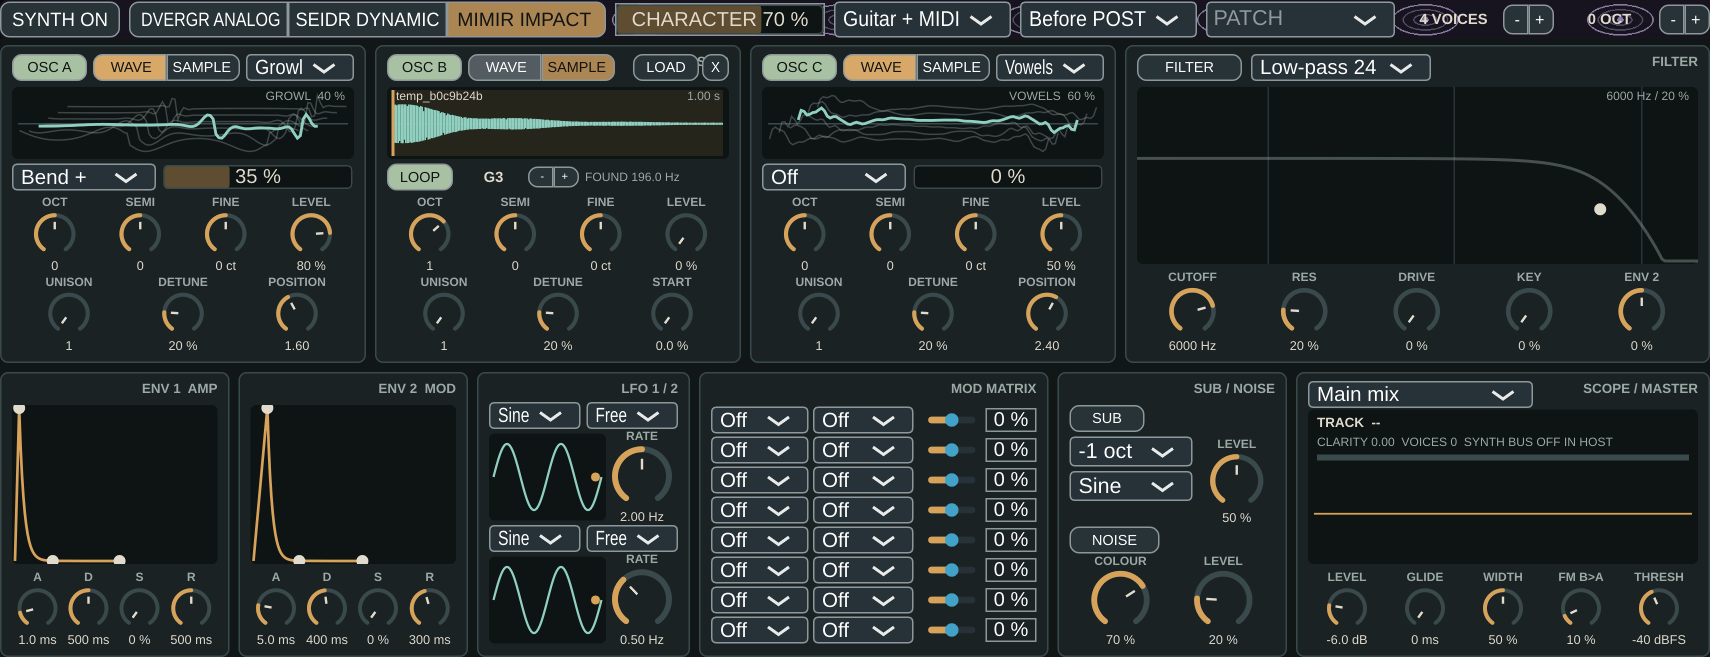
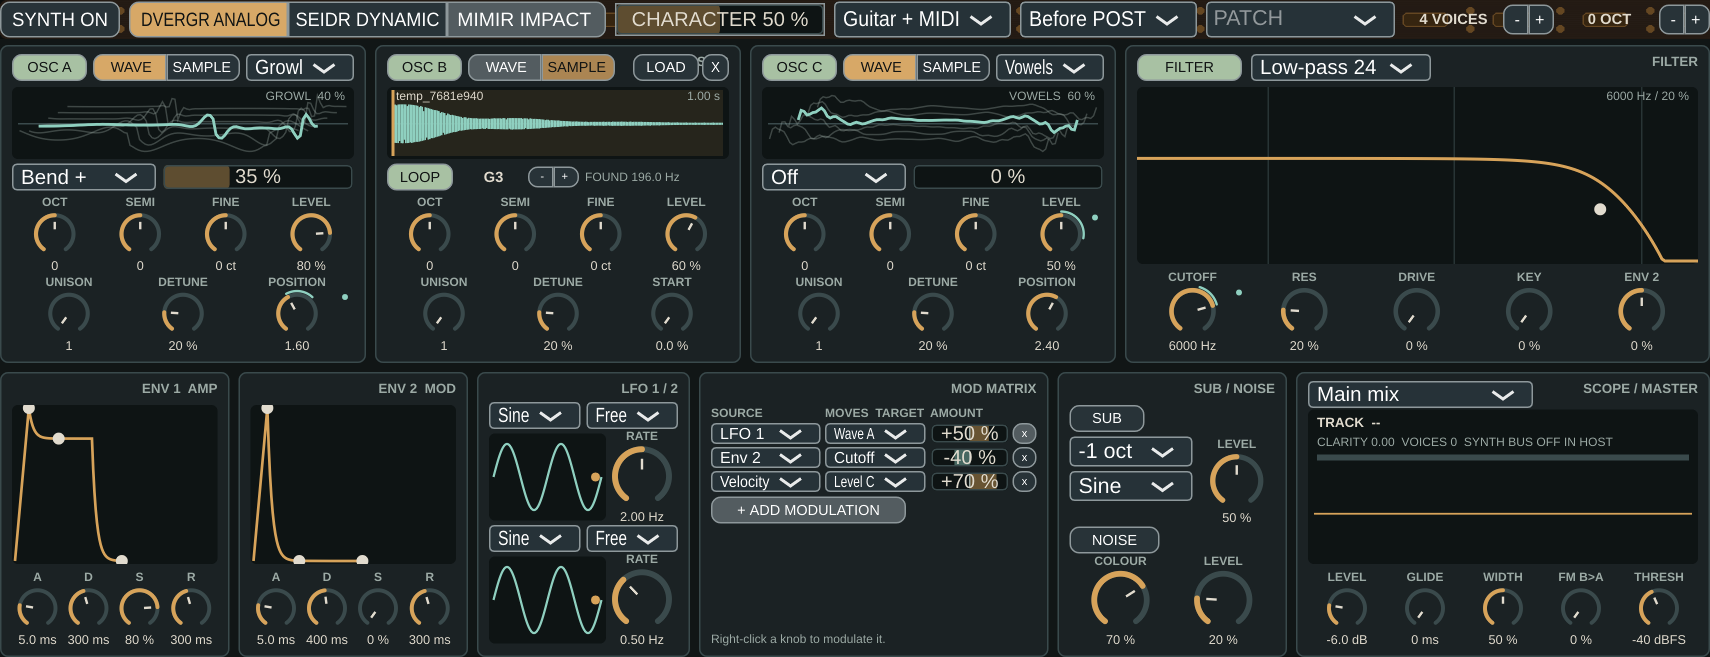
SYNTH page: a readable modulation matrix
Column titles, only the rows in use with + and x, a two-way amount
bar, right-click a knob to choose what moves it, and a mark on
modulated knobs. Parameters and engine unchanged.

Claude-Session: https://claude.ai/code/session_016MDh9rnDZpGFR7fQWkgNVc

diff --git a/Source/SynthPage.h b/Source/SynthPage.h
@@ -34,12 +34,25 @@ public:
         g.setColour(slider.isEnabled()?accentColour:mutedColour);g.strokePath(value,juce::PathStrokeType(thick,juce::PathStrokeType::curved,juce::PathStrokeType::rounded));
         const auto tip=c.getPointOnCircumference(radius-thick*1.6f,angle);
         g.setColour(inkColour);g.drawLine({c.getPointOnCircumference(radius*.25f,angle),tip},1.6f);
+        // A knob the matrix modulates: an outer arc from the set value, towards
+        // the side the modulation pushes it (its length follows the amount; it
+        // is an indicator, not the exact range).
+        if(const double mod=double(slider.getProperties().getWithDefault("mod",0.0));std::abs(mod)>.005){
+            const float span=float(juce::jlimit(-1.0,1.0,mod))*.5f*(end-start),to=juce::jlimit(start,end,angle+span);
+            juce::Path arc;arc.addCentredArc(c.x,c.y,radius+thick*.9f,radius+thick*.9f,0,juce::jmin(angle,to),juce::jmax(angle,to),true);
+            g.setColour(traceColour);g.strokePath(arc,juce::PathStrokeType(1.6f,juce::PathStrokeType::curved,juce::PathStrokeType::rounded));
+            g.fillEllipse(r.getRight()-6,r.getY()+1,4,4);
+        }
     }
     void drawLinearSlider(juce::Graphics& g,int x,int y,int width,int height,float position,float minimum,float maximum,juce::Slider::SliderStyle style,juce::Slider& slider) override {
         if(style!=juce::Slider::LinearBar){juce::LookAndFeel_V4::drawLinearSlider(g,x,y,width,height,position,minimum,maximum,style,slider);return;}
         const auto r=juce::Rectangle<int>(x,y,width,height).toFloat();
         g.setColour(juce::Colour(0xff0e1414));g.fillRoundedRectangle(r,3);
-        g.setColour(accentColour.withAlpha(.4f));g.fillRoundedRectangle(r.withRight(position),3);
+        if(slider.getMinimum()<0 && slider.getMaximum()>0){   // a two-way amount: the bar grows from the centre
+            const float centre=r.getX()+r.getWidth()*float(-slider.getMinimum()/(slider.getMaximum()-slider.getMinimum()));
+            g.setColour((slider.getValue()<0?traceColour:accentColour).withAlpha(.45f));g.fillRect(juce::Rectangle<float>::leftTopRightBottom(juce::jmin(centre,position),r.getY()+1,juce::jmax(centre,position),r.getBottom()-1));
+            g.setColour(mutedColour);g.fillRect(centre-.5f,r.getY()+2,1.f,r.getHeight()-4);
+        } else {g.setColour(accentColour.withAlpha(.4f));g.fillRoundedRectangle(r.withRight(position),3);}
         g.setColour(edgeColour);g.drawRoundedRectangle(r.reduced(.5f),3,1);
     }
     juce::Label* createSliderTextBox(juce::Slider& slider) override {
@@ -104,7 +117,9 @@ private:
 };
 class Choice final : public juce::ComboBox {
 public:
-    Choice(juce::AudioProcessorValueTreeState& state,const juce::String& id,const juce::StringArray& items,const juce::String& tip) {
+    // `first`: the text shown for the first choice in place of its parameter name (for example "Source" for "Off").
+    Choice(juce::AudioProcessorValueTreeState& state,const juce::String& id,juce::StringArray items,const juce::String& tip,const juce::String& first={}) {
+        if(first.isNotEmpty() && !items.isEmpty())items.set(0,first);
         setComponentID(id);setTooltip(tip);setName(tip);addItemList(items,1);
         attachment=std::make_unique<juce::AudioProcessorValueTreeState::ComboBoxAttachment>(state,id,*this);
     }
@@ -453,17 +468,29 @@ public:
             lfoSync[size_t(l)]=add(std::make_unique<Choice>(state,base+"Sync",synthLfoSyncNames(),"LFO "+juce::String(l+1)+" tempo sync"));
             lfoRate[size_t(l)]=static_cast<Knob*>(add(std::make_unique<Knob>(state,base+"Rate","RATE")));
             addAndMakeVisible(lfoGraphs[size_t(l)]);}
-        // Modulation matrix
+        // Modulation matrix (docs/SYNTH_WAVETABLE.md, "Modulation matrix"): SOURCE
+        // moves TARGET by AMOUNT. Only the rows in use are shown; + adds one.
+        for(auto [label,text]:{std::pair<juce::Label*,const char*>{&modSourceTitle,"SOURCE"},{&modTargetTitle,"MOVES  TARGET"},{&modAmountTitle,"AMOUNT"}}){
+            label->setText(text,juce::dontSendNotification);label->setFont(juce::FontOptions(9.f,juce::Font::bold));label->setColour(juce::Label::textColourId,mutedColour);label->setBorderSize({});addAndMakeVisible(*label);}
         for(int m=0;m<synthModSlots;++m){
-            auto& row=modRows[size_t(m)];
-            row.source=add(std::make_unique<Choice>(state,synthModID(m,"Source"),synthModSourceNames(),"Mod "+juce::String(m+1)+" source"));
-            row.target=add(std::make_unique<Choice>(state,synthModID(m,"Target"),synthModTargetNames(),"Mod "+juce::String(m+1)+" target"));
-            auto amount=std::make_unique<juce::Slider>(juce::Slider::LinearHorizontal,juce::Slider::TextBoxRight);
-            amount->setComponentID(synthModID(m,"Amount"));amount->setTextBoxStyle(juce::Slider::TextBoxRight,false,34,16);amount->setTooltip("Mod "+juce::String(m+1)+" amount");
-            amount->setColour(juce::Slider::trackColourId,accentColour);amount->setScrollWheelEnabled(false);
+            auto& row=modRows[size_t(m)];const auto n=juce::String(m+1);
+            row.source=add(std::make_unique<Choice>(state,synthModID(m,"Source"),synthModSourceNames(),"Modulation "+n+": what moves the target (an envelope, an LFO, how hard you play ...)","Source ..."));
+            row.target=add(std::make_unique<Choice>(state,synthModID(m,"Target"),synthModTargetNames(),"Modulation "+n+": what is moved","Target ..."));
+            auto amount=std::make_unique<juce::Slider>();amount->setSliderStyle(juce::Slider::LinearBar);   // the bar shows its value as text
+            amount->setComponentID(synthModID(m,"Amount"));amount->setTooltip("Modulation "+n+" amount: right of the centre moves the target up, left moves it down. Double-click for 0.");
+            amount->setColour(juce::Slider::textBoxTextColourId,inkColour);amount->setColour(juce::Slider::textBoxOutlineColourId,juce::Colours::transparentBlack);amount->setScrollWheelEnabled(false);
             row.amountAttachment=std::make_unique<juce::AudioProcessorValueTreeState::SliderAttachment>(state,synthModID(m,"Amount"),*amount);
+            // After the attachment, which installs the parameter's own text.
+            amount->setDoubleClickReturnValue(true,0.0);amount->textFromValueFunction=[](double v){const int i=juce::roundToInt(v);return juce::String(i>0?"+":"")+juce::String(i)+" %";};amount->updateText();
             row.amount=static_cast<juce::Slider*>(add(std::move(amount)));
+            auto clear=std::make_unique<juce::TextButton>("x");clear->setComponentID(synthModID(m,"Clear"));clear->setTooltip("Remove modulation "+n);
+            clear->onClick=[this,m]{clearModulation(m);};row.clear=static_cast<juce::TextButton*>(add(std::move(clear)));
         }
+        modAdd.setButtonText("+ ADD MODULATION");modAdd.setComponentID("synthModAdd");modAdd.setTooltip("Add a modulation row. You can also right-click a knob and choose what moves it.");
+        modAdd.onClick=[this]{modRowsRevealed=juce::jmin(synthModSlots,modRowsShown()+1);layoutMatrix();};addAndMakeVisible(modAdd);
+        modHint.setText("Right-click a knob to modulate it.",juce::dontSendNotification);modHint.setFont(juce::FontOptions(9.f));modHint.setColour(juce::Label::textColourId,mutedColour);modHint.setBorderSize({});addAndMakeVisible(modHint);
+        // Knobs the matrix can move: right-click opens "Modulate with".
+        for(auto& k:owned)if(auto* knob=dynamic_cast<Knob*>(k.get()))if(modTargetFor(knob->slider.getComponentID())>0)knob->slider.addMouseListener(this,false);
         // Scope and master
         output=add(std::make_unique<Choice>(state,"synthOutput",synthOutputNames(),"Synth output: into the guitar mix at its insert point, to the plugin's SYNTH output bus, or both. Without a SYNTH bus (the host enables it) the synth stays in the mix."));
         addAndMakeVisible(scope);
@@ -541,9 +568,7 @@ public:
          for(int l=0;l<2;++l){auto half=r.removeFromTop(r.getHeight()/(2-l));auto head=half.removeFromTop(18);
              lfoShape[size_t(l)]->setBounds(head.removeFromLeft(head.getWidth()/2-2));head.removeFromLeft(4);lfoSync[size_t(l)]->setBounds(head);
              lfoRate[size_t(l)]->setBounds(half.removeFromRight(48));lfoGraphs[size_t(l)].setBounds(half.reduced(0,3));}}
-        {auto r=p[7].first.reduced(8,6);r.removeFromTop(16);const int h=r.getHeight()/synthModSlots;
-         for(int m=0;m<synthModSlots;++m){auto row=r.removeFromTop(h).reduced(0,1);auto& mr=modRows[size_t(m)];
-             mr.source->setBounds(row.removeFromLeft(row.getWidth()*3/10));row.removeFromLeft(3);mr.target->setBounds(row.removeFromLeft(row.getWidth()*45/100));row.removeFromLeft(3);mr.amount->setBounds(row);}}
+        layoutMatrix();
         {auto r=p[8].first.reduced(8,6);r.removeFromTop(16);auto sub=r.removeFromTop(r.getHeight()/2);
          auto head=sub.removeFromTop(18);subOn->setBounds(head.removeFromLeft(50));sub.removeFromTop(3);
          auto menus=sub.removeFromLeft(sub.getWidth()*3/5);subOctave->setBounds(menus.removeFromTop(20));menus.removeFromTop(3);subShape->setBounds(menus.removeFromTop(20));
@@ -560,10 +585,61 @@ public:
             if(auto* knob=dynamic_cast<Knob*>(k.get()))if(knob->slider.getComponentID()==id)return &knob->slider;
             if(auto* seg=dynamic_cast<Segmented*>(k.get()))for(int i=0;i<seg->count();++i)if(id==seg->getComponentID()+juce::String(i))return &seg->button(i);
         }
+        if(auto* direct=findChildWithID(id))return direct;   // members such as the matrix's + button
         return getComponentID()==id?this:nullptr;
     }
     FilterCurve& filterCurve() noexcept {return filter;}
     EnvelopeGraph& envelopeGraph(int index) noexcept {return index==0?ampEnvelope:modEnvelope;}
+    // The matrix target a knob stands for (0: none). Octave, semitones and fine all stand for the oscillator's pitch.
+    static int modTargetFor(const juce::String& id) {
+        for(int o=0;o<synthOscCount;++o){
+            if(id==synthOscID(o,"Octave")||id==synthOscID(o,"Semi")||id==synthOscID(o,"Fine"))return targetPitchA+o;
+            if(id==synthOscID(o,"Wave"))return targetWaveA+o;
+            if(id==synthOscID(o,"Level"))return targetLevelA+o;
+            if(id==synthOscID(o,"Detune"))return targetDetune;
+        }
+        static const std::array<std::pair<const char*,int>,6> direct{{{"synthFM",targetFM},{"synthCutoff",targetCutoff},{"synthResonance",targetResonance},{"synthSubLevel",targetSubLevel},{"synthNoiseLevel",targetNoiseLevel},{"synthLevel",targetAmp}}};
+        for(const auto& [name,target]:direct)if(id==name)return target;
+        return 0;
+    }
+    // Rows on screen and the marks on modulated knobs follow the parameters (a patch or the host may change them).
+    void refreshModulation() {if(modRowsShown()!=shownModRows)layoutMatrix();updateModulatedKnobs();}
+    int modValue(int row,const char* field) const {return juce::roundToInt(state.getRawParameterValue(synthModID(row,field))->load());}
+    bool modRowUsed(int row) const {return modValue(row,"Source")>0 || modValue(row,"Target")>0;}
+    // Rows on screen: every row up to the last one in use, and those added with + (at least one).
+    int modRowsShown() const {int last=0;for(int m=0;m<synthModSlots;++m)if(modRowUsed(m))last=m+1;return juce::jlimit(1,synthModSlots,juce::jmax(last,modRowsRevealed));}
+    // Connects `source` to `target`: the row that already does, else the first free row. Returns the row or -1.
+    int assignModulation(int source,int target) {
+        int row=-1;
+        for(int m=0;m<synthModSlots && row<0;++m)if(modValue(m,"Source")==source && modValue(m,"Target")==target)row=m;
+        for(int m=0;m<synthModSlots && row<0;++m)if(!modRowUsed(m))row=m;
+        if(row<0)return -1;
+        setParameter(synthModID(row,"Source"),float(source));setParameter(synthModID(row,"Target"),float(target));
+        if(modValue(row,"Amount")==0)setParameter(synthModID(row,"Amount"),50.f);
+        modRowsRevealed=juce::jmax(modRowsRevealed,row+1);layoutMatrix();updateModulatedKnobs();
+        return row;
+    }
+    void clearModulation(int row) {
+        const bool last=row+1==modRowsShown();   // removing the last row on screen takes the row away
+        for(const char* field:{"Source","Target","Amount"})setParameter(synthModID(row,field),0.f);
+        if(last)modRowsRevealed=juce::jlimit(1,synthModSlots,row);
+        layoutMatrix();updateModulatedKnobs();
+    }
+    void mouseDown(const juce::MouseEvent& e) override {
+        if(!e.mods.isPopupMenu() || e.eventComponent==nullptr || e.eventComponent==this)return;
+        const int target=modTargetFor(e.eventComponent->getComponentID());if(target<=0)return;
+        juce::PopupMenu menu;const auto sources=synthModSourceNames();const auto name=synthModTargetNames()[target];
+        menu.addSectionHeader("MODULATE "+name.toUpperCase()+" WITH");
+        bool any=false;
+        for(int source=1;source<sources.size();++source){bool on=false;for(int m=0;m<synthModSlots;++m)on|=modValue(m,"Source")==source && modValue(m,"Target")==target;any|=on;menu.addItem(source,sources[source],true,on);}
+        menu.addSeparator();menu.addItem(100,"Remove every modulation of "+name,any);
+        juce::Component::SafePointer<SynthPage> safe(this);
+        menu.showMenuAsync(juce::PopupMenu::Options().withTargetComponent(e.eventComponent),[safe,target](int result){
+            if(!safe || result<=0)return;
+            if(result==100){for(int m=0;m<synthModSlots;++m)if(safe->modValue(m,"Target")==target)safe->clearModulation(m);return;}
+            if(safe->assignModulation(result,target)<0)juce::AlertWindow::showMessageBoxAsync(juce::MessageBoxIconType::InfoIcon,"Modulation matrix full","All eight modulation rows are in use. Remove one first.");
+        });
+    }
     WaveDisplay& waveDisplay(int osc) noexcept {return *oscPanels[size_t(juce::jlimit(0,synthOscCount-1,osc))].display;}
     WaveShapes& waveShapes(int osc) noexcept {return *oscPanels[size_t(juce::jlimit(0,synthOscCount-1,osc))].shapes;}
     // Shows each oscillator's Wave or Sample controls, and the character
@@ -604,12 +680,42 @@ private:
         if(!isShowing())return;
         if(const int t=juce::jlimit(0,2,juce::roundToInt(state.getRawParameterValue("synthType")->load()));t!=shownType){shownType=t;repaint(0,0,getWidth(),28);}
         updateModes();
+        refreshModulation();
         for(auto& p:oscPanels){p.display->repaint();p.shapes->repaint();}
         filter.repaint();ampEnvelope.repaint();modEnvelope.repaint();for(auto& l:lfoGraphs)l.repaint();scope.repaint();
         repaint(oscPanels[0].shapes->getBounds().getUnion(oscPanels[2].shapes->getBounds()));
     }
     struct OscPanel {juce::Component* on{};Segmented* mode{};WaveDisplay* display{};WaveShapes* shapes{};juce::Component* table{};juce::Component* warp{};juce::Component* warpAmount{};juce::TextButton* load{};juce::TextButton* clear{};juce::Component* loop{};Knob* root{};std::vector<Knob*> knobs;};
-    struct ModRow {juce::Component* source{};juce::Component* target{};juce::Slider* amount{};std::unique_ptr<juce::AudioProcessorValueTreeState::SliderAttachment> amountAttachment;};
+    void setParameter(const juce::String& id,float value) {
+        if(auto* q=state.getParameter(id)){q->beginChangeGesture();q->setValueNotifyingHost(q->convertTo0to1(value));q->endChangeGesture();}
+    }
+    // Lays out the rows in use, the + button under them, and hides the rest.
+    void layoutMatrix() {
+        auto r=panels()[7].first.reduced(8,6);r.removeFromTop(16);
+        const auto columns=[](juce::Rectangle<int> row){std::array<juce::Rectangle<int>,4> c;c[3]=row.removeFromRight(16);row.removeFromRight(2);
+            c[0]=row.removeFromLeft(row.getWidth()*37/100);row.removeFromLeft(3);c[1]=row.removeFromLeft(row.getWidth()*55/100);row.removeFromLeft(3);c[2]=row;return c;};
+        {const auto c=columns(r.removeFromTop(11));modSourceTitle.setBounds(c[0]);modTargetTitle.setBounds(c[1]);modAmountTitle.setBounds(c[2]);}
+        const int shown=modRowsShown(),h=juce::jmin(20,r.getHeight()/(synthModSlots+1));
+        for(int m=0;m<synthModSlots;++m){
+            auto& mr=modRows[size_t(m)];const bool visible=m<shown;
+            for(juce::Component* c:{mr.source,mr.target,static_cast<juce::Component*>(mr.amount),static_cast<juce::Component*>(mr.clear)})c->setVisible(visible);
+            if(!visible)continue;
+            const auto c=columns(r.removeFromTop(h).reduced(0,1));mr.source->setBounds(c[0]);mr.target->setBounds(c[1]);mr.amount->setBounds(c[2]);mr.clear->setBounds(c[3]);
+        }
+        modAdd.setVisible(shown<synthModSlots);
+        if(shown<synthModSlots){r.removeFromTop(2);modAdd.setBounds(r.removeFromTop(juce::jmin(18,r.getHeight())).removeFromLeft(juce::jmin(130,r.getWidth())));}
+        modHint.setVisible(r.getHeight()>=12);if(modHint.isVisible())modHint.setBounds(r.removeFromBottom(12));
+        shownModRows=shown;
+    }
+    // Marks every knob the matrix moves (the look draws the arc).
+    void updateModulatedKnobs() {
+        std::array<double,synthModTargetCount> sum{};
+        for(int m=0;m<synthModSlots;++m){const int target=modValue(m,"Target");if(modValue(m,"Source")>0 && target>0 && target<synthModTargetCount)sum[size_t(target)]+=state.getRawParameterValue(synthModID(m,"Amount"))->load()*.01;}
+        for(auto& k:owned)if(auto* knob=dynamic_cast<Knob*>(k.get())){const int target=modTargetFor(knob->slider.getComponentID());if(target<=0)continue;
+            const double mod=juce::jlimit(-1.0,1.0,sum[size_t(target)]);
+            if(std::abs(double(knob->slider.getProperties().getWithDefault("mod",0.0))-mod)>1e-6){knob->slider.getProperties().set("mod",mod);knob->slider.repaint();}}
+    }
+    struct ModRow {juce::Component* source{};juce::Component* target{};juce::Slider* amount{};juce::TextButton* clear{};std::unique_ptr<juce::AudioProcessorValueTreeState::SliderAttachment> amountAttachment;};
     SynthLook look;   // declared first: destroyed after every child that uses it
     ChimeraProcessor& processor;juce::AudioProcessorValueTreeState& state;
     std::vector<std::unique_ptr<juce::Component>> owned;std::vector<juce::Component*> children;std::vector<Knob*> header;
@@ -623,7 +729,7 @@ private:
     juce::Component* filterOn{};juce::Component* filterType{};FilterCurve filter;std::vector<Knob*> filterKnobs;
     EnvelopeGraph ampEnvelope,modEnvelope;std::array<std::vector<Knob*>,2> envKnobs;
     std::array<juce::Component*,2> lfoShape{},lfoSync{};std::array<Knob*,2> lfoRate{};std::array<LfoGraph,2> lfoGraphs;
-    std::array<ModRow,synthModSlots> modRows;
+    std::array<ModRow,synthModSlots> modRows;juce::Label modSourceTitle,modTargetTitle,modAmountTitle,modHint;juce::TextButton modAdd;int modRowsRevealed{1},shownModRows{-1};
     Scope scope;std::vector<Knob*> masterKnobs;
 };
 } // namespace spectralforge::synthUI

diff --git a/Tests/SynthTests.cpp b/Tests/SynthTests.cpp
@@ -587,6 +587,27 @@ void processorInsertsAndPage() {
      auto& tableDisplay=page.waveDisplay(1);drag(tableDisplay,{20,20},{float(tableDisplay.getWidth())*.5f,20});
      require(std::abs(raw("synthOscBWave")-2.f)<.08f,"Dragging across a wavetable does not set its position");
      static_cast<juce::ComboBox*>(page.control("synthOscBTable"))->setSelectedId(1,juce::sendNotificationSync);page.updateModes();}
+    // Modulation matrix: only rows in use, + adds one, a knob's menu connects a source, x removes it.
+    {const auto pumpNow=[]{juce::MessageManager::getInstance()->runDispatchLoopUntil(20);};
+     page.applyPatch(0);pumpNow();
+     for(int m=0;m<synthModSlots;++m)page.clearModulation(m);
+     const auto shown=[&]{int n=0;for(int m=0;m<synthModSlots;++m)n+=page.control(synthModID(m,"Source"))->isVisible();return n;};
+     require(shown()==1 && page.control("synthModAdd")->isVisible(),"An empty matrix does not show one row and the + button");
+     static_cast<juce::Button*>(page.control("synthModAdd"))->triggerClick();pumpNow();
+     require(shown()==2,"+ does not add a row");
+     require(spectralforge::synthUI::SynthPage::modTargetFor("synthCutoff")==targetCutoff && spectralforge::synthUI::SynthPage::modTargetFor("synthOscBFine")==targetPitchB
+             && spectralforge::synthUI::SynthPage::modTargetFor("synthOscCWave")==targetWaveC && spectralforge::synthUI::SynthPage::modTargetFor("synthGlide")==0,"Knob to matrix target mapping wrong");
+     writes.gestures=0;
+     const int row=page.assignModulation(2,targetCutoff);   // LFO 1 -> Cutoff
+     require(row==0 && juce::roundToInt(raw(synthModID(0,"Source").toRawUTF8()))==2 && juce::roundToInt(raw(synthModID(0,"Target").toRawUTF8()))==targetCutoff && raw(synthModID(0,"Amount").toRawUTF8())==50 && writes.gestures==6,
+             "Connecting a source to a knob does not fill the first free row in one gesture per parameter");
+     require(page.assignModulation(2,targetCutoff)==0 && page.assignModulation(1,targetCutoff)==1,"A repeated connection made a second row, or a new one reused the row");
+     auto* cutoff=dynamic_cast<juce::Slider*>(page.control("synthCutoff"));auto* glide=dynamic_cast<juce::Slider*>(page.control("synthGlide"));
+     require(cutoff!=nullptr && std::abs(double(cutoff->getProperties().getWithDefault("mod",0.0))-1.0)<1e-6 && (glide==nullptr || double(glide->getProperties().getWithDefault("mod",0.0))==0),"A modulated knob is not marked");
+     static_cast<juce::Button*>(page.control(synthModID(1,"Clear")))->triggerClick();static_cast<juce::Button*>(page.control(synthModID(0,"Clear")))->triggerClick();pumpNow();
+     require(juce::roundToInt(raw(synthModID(0,"Source").toRawUTF8()))==0 && raw(synthModID(0,"Amount").toRawUTF8())==0 && shown()==1,"x does not clear a row");
+     auto* amount=dynamic_cast<juce::Slider*>(page.control(synthModID(0,"Amount")));
+     require(amount!=nullptr && amount->getSliderStyle()==juce::Slider::LinearBar && amount->getTextFromValue(-35.0)=="-35 %" && amount->getTextFromValue(20.0)=="+20 %","The amount is not a signed bar");}
     // Optional evidence: SYNTH_PAGE_SNAPSHOT=<directory> writes the page, with a sample in osc B.
     if(const char* dir=std::getenv("SYNTH_PAGE_SNAPSHOT")){
         const auto wav=juce::File::createTempFile(".wav");
@@ -596,6 +617,9 @@ void processorInsertsAndPage() {
         {auto put=[&](const char* id,float v){auto* q=p->parameters().getParameter(id);q->setValueNotifyingHost(q->convertTo0to1(v));};
          put("synthOscATable",9);put("synthOscAWave",1.6f);put("synthOscAWarp",float(synthWarpBendUp));put("synthOscAWarpAmount",35);
          put("synthOscCOn",1);put("synthOscCTable",3);put("synthOscCWave",2.4f);}
+        page.assignModulation(2,targetWaveA);page.assignModulation(1,targetCutoff);page.assignModulation(4,targetLevelC);
+        {auto put=[&](const juce::String& id,float v){auto* q=p->parameters().getParameter(id);q->setValueNotifyingHost(q->convertTo0to1(v));};put(synthModID(1,"Amount"),-40);put(synthModID(2,"Amount"),70);}
+        page.refreshModulation();
         page.updateModes();page.resized();
         for(const float scale:{1.f,1.5f}){
             juce::Image image(juce::Image::ARGB,int(page.getWidth()*scale),int(page.getHeight()*scale),true);

diff --git a/docs/SYNTH_WAVETABLE.md b/docs/SYNTH_WAVETABLE.md
@@ -59,6 +59,29 @@ The matrix targets Wave A / B / C move the position of a table, as they morph
 the classic shapes (tested with velocity). The warp amount is not a matrix
 target yet: adding one would change the released target list.
 
+## Modulation matrix (page only)
+
+The owner found the matrix hard to read: eight rows of "Off / Off / slider /
+0 %" with no labels. The parameters and the engine are unchanged; the page
+shows them differently.
+
+- **Titles:** SOURCE, MOVES TARGET, AMOUNT above the rows. An empty menu reads
+  "Source ..." or "Target ..." instead of "Off".
+- **Rows in use only:** the panel shows the rows up to the last one in use (at
+  least one). `+ ADD MODULATION` adds a row; `x` clears a row.
+- **Amount:** a bar that grows from the centre, right for up and left for down,
+  with the value as "+50 %" or "-40 %". Double-click sets 0.
+- **From a knob:** right-click a knob the matrix can move (oscillator pitch,
+  wave / position, level and detune, FM, cutoff, resonance, sub and noise
+  level, master level) and choose the source. This fills the first free row
+  at +50 %. The same menu removes every modulation of that knob.
+- **Marks:** a modulated knob shows a dot and an arc from its value towards
+  the side the modulation pushes it. The arc's length follows the summed
+  amount; it is an indicator, not the exact range.
+
+Not done: dragging a source onto a knob, more than eight rows, the warp
+amount or the filter drive as targets, and an animated value on the knob.
+
 ## On the page
 
 - A menu in each oscillator's header chooses the table (Wave mode).
